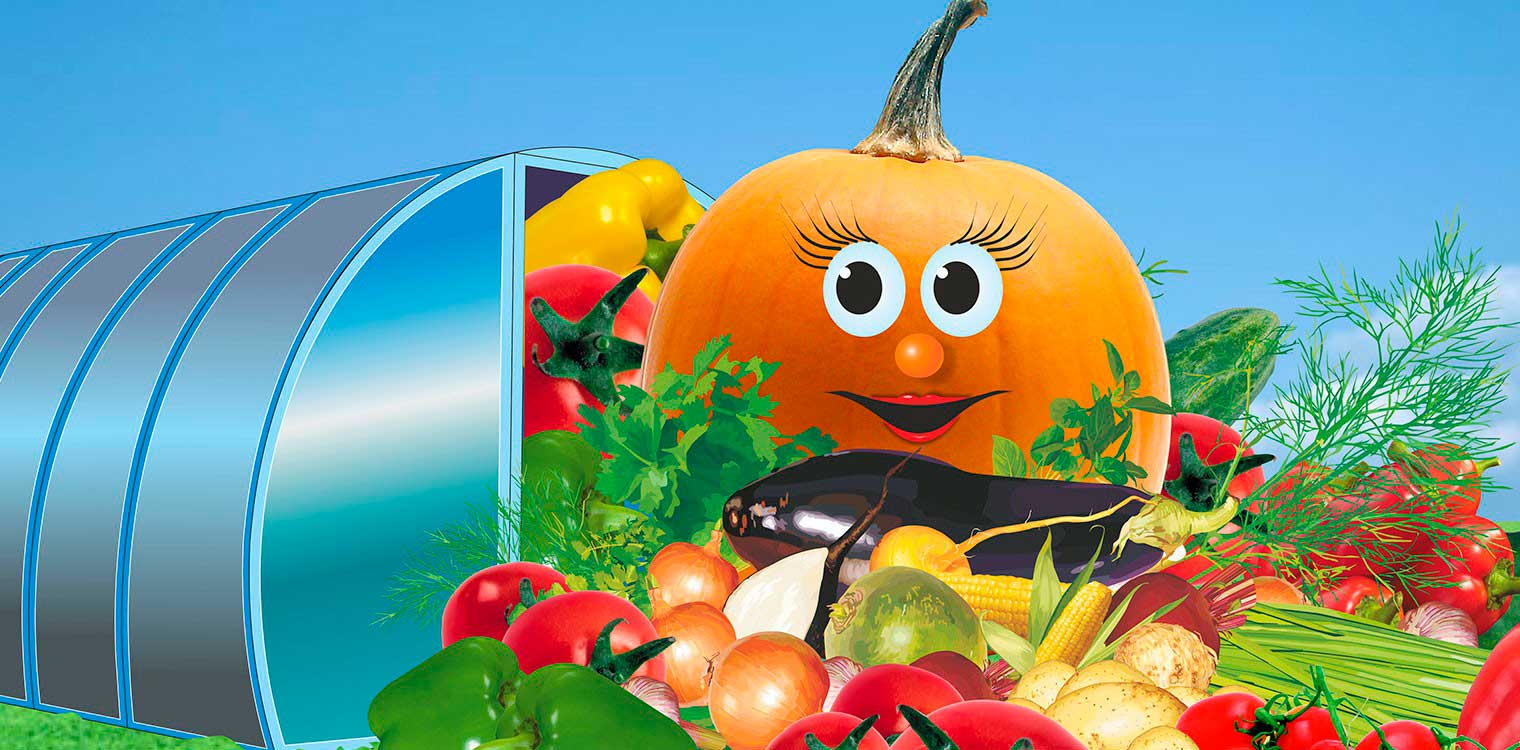
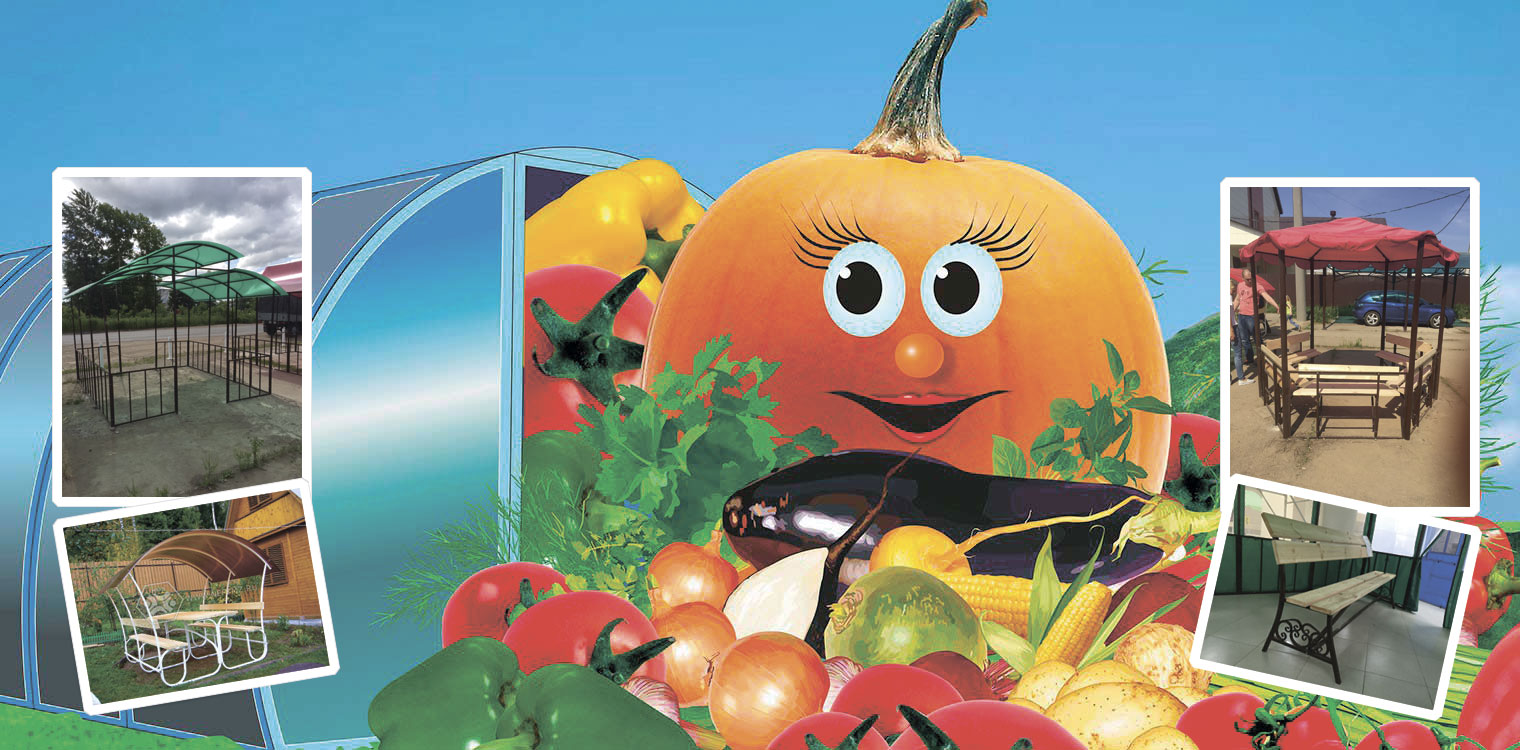
Изменены баннеры.

diff --git a/_includes/banner.html b/_includes/banner.html
@@ -2,24 +2,42 @@
     <a name="top"></a>
     <ul id="demo1">
         <li>
-            <img src="/images/banner/3.jpg" alt="" />
+            <img src="/images/banner/1.jpg" alt="" />
             <div class="slide-desc">
-                <p><span class="creative creative1">НАДЕЖНАЯ</span> <span class="small-text">альтернатива разрекламированной</span> <span class="creative creative1">ТЕПЛИЦА</span></p>
-                <p class="small-text3"><strong>Качественные и недорогие.</strong><br> Реализуем только качественные и недорогие теплицы.</p>
+                <p>
+                    <span class="creative creative1">БЕСЕДКИ</span>
+                    <span class="small-text">для полноценного комфортного отдыха</span>
+                    <span class="creative creative1">СКАМЕЙКИ</span>
+                </p>
+                <!--<p class="small-text3">-->
+                    <!--<strong>Богатый урожай!</strong><br>-->
+                    <!--С 2006 года мы занимаемся обеспечением хорошего урожая.-->
+                <!--</p>-->
             </div>
         </li>
         <li>
             <img src="/images/banner/2.jpg" alt="" />
             <div class="slide-desc">
-                <p><span class="creative creative1">НАДЕЖНАЯ</span> <span class="small-text">альтернатива разрекламированной</span> <span class="creative creative1">ТЕПЛИЦА</span></p>
-                <p class="small-text3"><strong>Сотовый Поликарбонат.</strong><br> Более 10 лет компания «Кронос» радует сибиряков качественным листом.</p>
+                <p><span class="creative creative1">ЯРЧЕ</span> <span class="small-text">сделаем свой отдых</span> <span class="creative creative1">ВСЕ ЦВЕТА</span></p>
+                <!--<p class="small-text3"><strong>Сотовый Поликарбонат.</strong><br> Более 10 лет компания «Кронос» радует сибиряков качественным листом.</p>-->
+                <p class="small-text3">
+                    <strong>Сотовый Поликарбонат.</strong><br>
+                    Гарантия до 20 ЛЕТ!
+                </p>
             </div>
         </li>
         <li>
-            <img src="/images/banner/1.jpg" alt="" />
+            <img src="/images/banner/3.jpg" alt="" />
             <div class="slide-desc">
-                <p><span class="creative creative1">НАДЕЖНАЯ</span> <span class="small-text">альтернатива разрекламированной</span> <span class="creative creative1">ТЕПЛИЦА</span></p>
-                <p class="small-text3"><strong>Богатый урожай!</strong><br> С 2006 года мы занимаемся обеспечением хорошего урожая.</p>
+                <p>
+                    <span class="creative creative1">НАДЕЖНАЯ</span>
+                    <span class="small-text">альтернатива разрекламированной</span>
+                    <span class="creative creative1">ТЕПЛИЦА</span>
+                </p>
+                <p class="small-text3">
+                    <strong>Качественные и недорогие.</strong><br>
+                    Реализуем только качественные и недорогие теплицы.
+                </p>
             </div>
         </li>
     </ul>

diff --git a/css/skdslider.css b/css/skdslider.css
@@ -70,7 +70,8 @@
 	font-weight: 400;
 	font-size: 28px;
 	display: block;
-	margin: -10px 0 0 30px !important;
+	/*margin: -10px 0 0 30px !important;*/
+	margin: 0 0 0 30px !important;
 	color:#fff;
 	text-shadow: 0px 0px 4px rgba(33, 33, 33, 1);
 }
@@ -82,6 +83,7 @@
 .skdslider .slide-desc span.creative1{
 	line-height: 45px;
 	padding-bottom: 20px;
+	padding-top: 20px;
 	margin:0px 0 0 12px;
 	text-shadow: 0px 0px 4px rgba(33, 33, 33, 1);
 }
